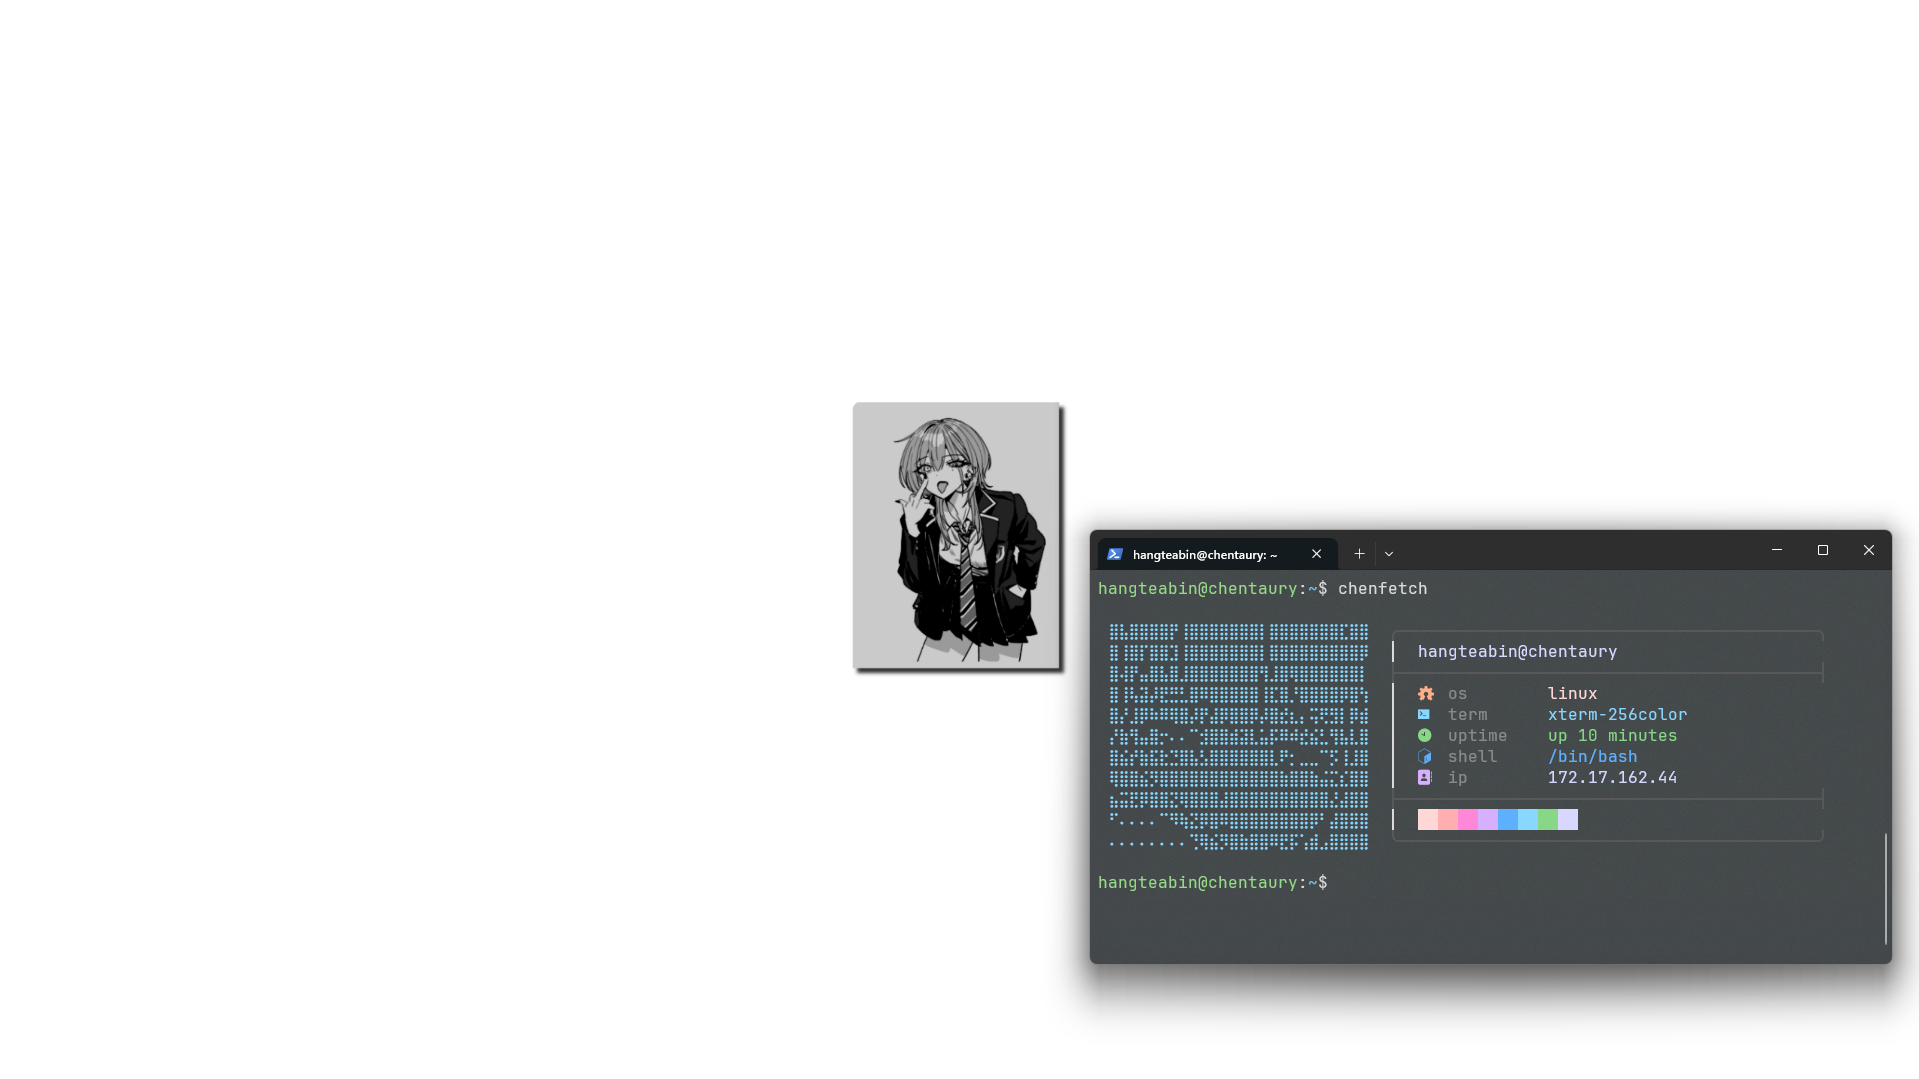
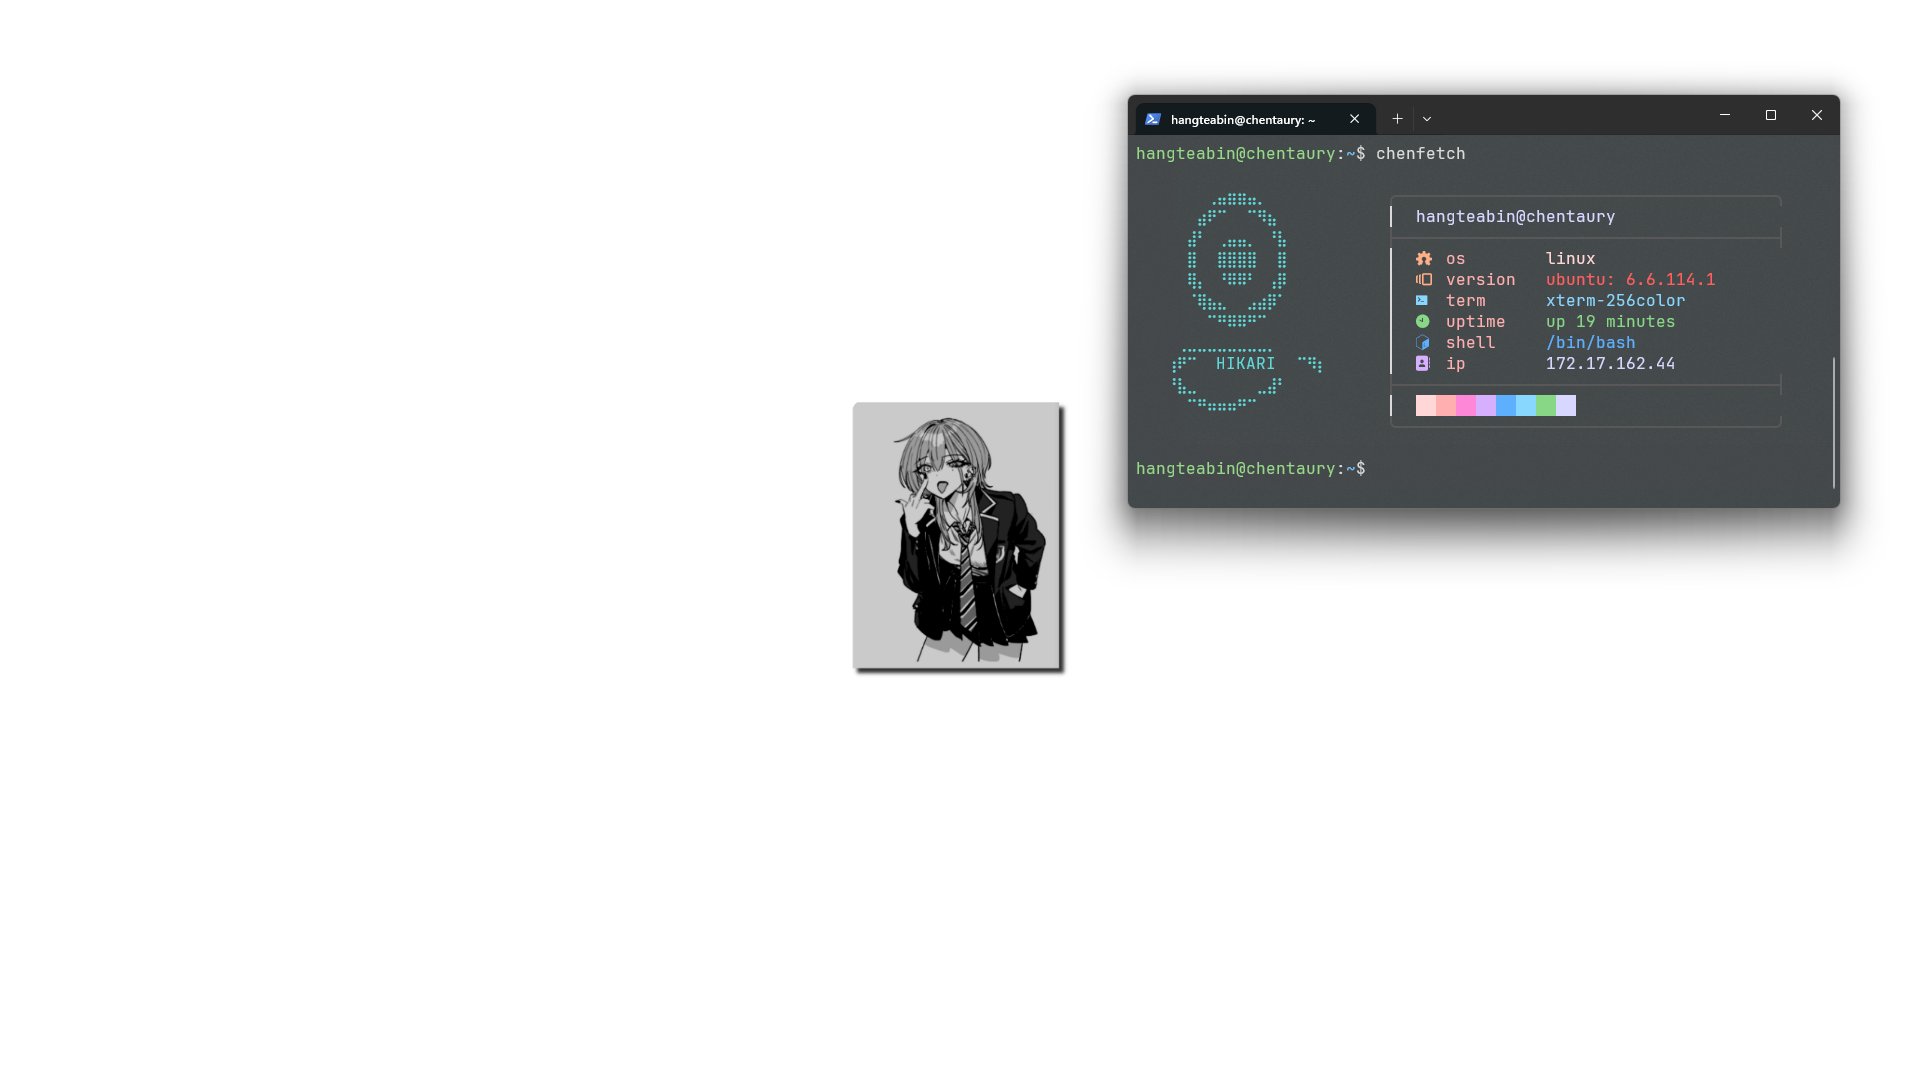
chore: update hikari style

diff --git a/hikari/main.go b/hikari/main.go
@@ -16,17 +16,17 @@ import (
 )
 
 var asciiLines = []string{
-	`⣿⣧⣿⣿⣿⣿⡟⢸⣿⣿⣿⣿⣿⣿⣿⡇⣿⣿⣿⣿⣿⣿⣿⣏⣿⣿`,
-	`⣿⢸⣿⡏⣿⣿⣹⢸⣿⣿⣿⣿⣿⣿⣿⡇⣿⣿⣿⣿⣿⣿⣿⣿⣿⡿`,
-	`⣿⢼⡟⣤⣿⣧⣿⣸⣿⣿⣿⣿⣿⣿⣿⢻⣸⣿⢿⣿⣿⣿⣿⣿⣿⡇`,
-	`⣿⢸⢧⣽⡼⣟⣛⣃⣿⠿⣿⣿⣿⣿⣿⢸⣏⣿⡘⣿⣿⣿⣿⡿⣿⢳`,
-	`⣿⡜⣸⡿⠷⠿⢿⣿⡼⡟⣼⡿⣿⣿⡿⡼⣿⣞⣆⡄⢭⢟⣻⡇⡿⣾`,
-	`⡜⣷⢻⣤⣿⡒⠄⠄⠉⣺⣿⣿⣾⣽⣇⣥⡯⠿⠾⣞⣮⣃⢻⣧⣇⣿`,
-	`⣿⣮⡞⣷⣯⣗⣙⣿⣧⣣⣿⣿⣿⣿⣿⣿⣇⠟⡂⣀⣀⠉⡫⢸⣸⣿`,
-	`⢿⣿⣿⣮⡻⣿⣿⣿⣿⣿⣿⣿⣿⣿⣿⣿⣿⣷⣿⣿⣷⣬⣍⣎⣿⣿`,
-	`⣦⣭⣟⡿⣿⣿⣝⢿⣿⣿⣿⣼⣿⣿⣿⣿⣿⣿⣿⣿⣿⣿⣜⣼⣿⣿`,
-	`⠋⠄⠄⠄⠄⠉⠻⢷⣝⡿⣿⠿⣿⣿⣿⣿⣿⣿⣿⣿⡿⠃⣼⣿⣿⣿`,
-	`⠄⠄⠄⠄⠄⠄⠄⠄⢙⢿⣮⡻⣿⣷⣿⣿⠿⣟⡯⢡⣾⣠⣿⣿⣿⣿`,
+	`      ⢀⣤⣶⣶⣤⡀      `,
+	`     ⣴⠟⠉  ⠉⠻⣦     `,
+	`    ⣼⠃ ⢀⣤⣤⡀ ⠘⣧    `,
+	`    ⣿  ⣿⣿⣿⣿  ⣿    `,
+	`    ⢿⡄ ⠘⠿⠿⠃ ⢠⡿    `,
+	`    ⠈⢿⣦⣄  ⣠⣴⡿⠁    `,
+	`      ⠉⠛⠿⠿⠛⠉      `,
+	`   ⢀⣀⣀⣀⣀⣀⣀⣀⣀⡀     `,
+	`  ⢰⠟⠉  HIKARI  ⠉⠻⡆  `,
+	`  ⠘⣧⣀      ⣀⣼⠃  `,
+	`    ⠉⠛⠶⠶⠶⠛⠉     `,
 }
 
 var (
@@ -51,7 +51,7 @@ func c(col xterm256.Color, s string) string {
 	return xterm256.Sprintf(col, s)
 }
 
-const boxW = 42
+const boxW = 38
 
 func boxTop() string {
 	return "╭" + strings.Repeat("─", boxW) + "╮"
@@ -127,6 +127,8 @@ func main() {
 	termStr := strings.TrimSpace(string(termRaw))
 	shellStr := user_shell.GetUserShell()
 	ipStr := localIP()
+	getVersion := strings.Split(hostInfo.KernelVersion, "-")[0]
+	title := fmt.Sprintf("%s: %s", hostInfo.Platform, getVersion)
 
 	swatchColors := []xterm256.Color{
 		colorRosewater,
@@ -162,31 +164,37 @@ func main() {
 
 		boxRow(
 			c(colorPeach, ""),
-			c(colorSubtext, "os      "),
+			c(colorFlamingo, "os      "),
 			c(colorRosewater, hostInfo.OS),
 		),
 
 		boxRow(
+			c(colorPeach, ""),
+			c(colorFlamingo, "version "),
+			c(colorRed, title),
+		),
+
+		boxRow(
 			c(colorSky, ""),
-			c(colorSubtext, "term    "),
+			c(colorFlamingo, "term    "),
 			c(colorSky, termStr),
 		),
 
 		boxRow(
 			c(colorGreen, ""),
-			c(colorSubtext, "uptime  "),
+			c(colorFlamingo, "uptime  "),
 			c(colorGreen, uptimeStr),
 		),
 
 		boxRow(
 			c(colorBlue, ""),
-			c(colorSubtext, "shell   "),
+			c(colorFlamingo, "shell   "),
 			c(colorBlue, shellStr),
 		),
 
 		boxRow(
 			c(colorMauve, ""),
-			c(colorSubtext, "ip      "),
+			c(colorFlamingo, "ip      "),
 			c(colorLavender, ipStr),
 		),
 
@@ -261,7 +269,7 @@ func main() {
 		}
 
 		t.AppendRow(table.Row{
-			c(colorSky, asciiLines[i]),
+			c(colorTeal, asciiLines[i]),
 			infoCol,
 		})
 	}
